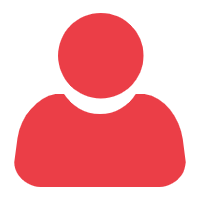
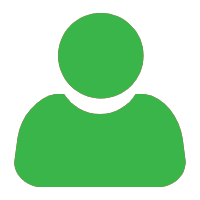
page modify stack bug and color

diff --git a/src/pages/me/index.vue b/src/pages/me/index.vue
@@ -3,14 +3,14 @@
     <view class="me-container" v-if="isLogin">
       <!-- 头部 -->
       <view class="me-header">
+        <view
+          style="height: 148px;background: #39b54a;border-radius: 0 0 60px 60px;position: absolute;width: 100%;z-index: -1;"
+        ></view>
         <!-- 个人 -->
         <view class="person-wrap">
           <image :src="meInfo.avatarUrl" />
           <view class="member-content">
-            <view class="member-name">
-              {{meInfo.nickName}}
-              <view class="iconfont iconyou"></view>
-            </view>
+            <view class="member-name">{{meInfo.nickName}}</view>
             <!-- <text class="gold">金币666</text> -->
           </view>
           <view class="earn-more">
@@ -203,6 +203,7 @@ export default {
 page {
   background: #f6f5f4;
 }
+
 .iconjinbi1 {
   color: #ffff00;
 }
@@ -218,6 +219,8 @@ button::after {
   border: 0;
 }
 .me-header {
+  // background-image: linear-gradient(180deg, #39b54a, #8dc63f);
+  // border-radius: 0 0 90px 90px;
   .person-wrap {
     display: flex;
     padding: 40rpx 20rpx 0 20rpx;
@@ -231,12 +234,13 @@ button::after {
       position: relative;
       display: flex;
       flex-direction: column;
-      justify-content: space-between;
+      justify-content: center;
       margin-left: 15rpx;
       font-size: 26rpx;
       .member-name {
         display: flex;
         align-items: center;
+        color: #fff;
         .iconyou {
           margin-left: 10rpx;
           font-size: 21rpx;
@@ -292,7 +296,7 @@ button::after {
         align-items: center;
         padding: 12rpx;
         background: #fff;
-        color: #e86453;
+        color: #eb6961;
         border-radius: 25rpx;
         .iconyou {
           font-size: 21rpx;

diff --git a/src/pages/detail/index.vue b/src/pages/detail/index.vue
@@ -238,7 +238,6 @@
   </view>
 </template>
 <script>
-/* eslint-disable no-undef */
 import { get } from '@/utils/http'
 import indexList from '@/components/index-list'
 import { moveTo } from '@/utils/common'
@@ -279,6 +278,10 @@ export default {
   async onShow() {
     /* eslint-disable no-undef */
     const list = getCurrentPages()
+    if (list.length > 6 && list[list.length - 5].route === 'pages/detail/main') {
+      // wx.navigateBack(-4)
+      console.log(list, this.route)
+    }
     this.currentPageId = list[list.length - 1].options.id
     if (!list[list.length - 1].data.goodsItem) {
       this.similarPopup = false
@@ -349,7 +352,16 @@ export default {
     },
     // 移动详情页
     moveToDetail(item) {
+      /* eslint-disable no-undef */
+      const list = getCurrentPages()
       this.similarTop = this.recordsTop
+      if (list.length > 6 && list[list.length - 5].route === 'pages/detail/main') {
+        wx.redirectTo({
+          url: '../detail/main?id=' + item.goodsId
+        })
+        return false
+      }
+
       moveTo('../detail/main', { id: item.goodsId })
     },
     // 相似商品页

diff --git a/src/components/index-list.vue b/src/components/index-list.vue
@@ -86,7 +86,8 @@ export default {
       height: 60rpx;
       line-height: 60rpx;
       .post-coupon {
-        color: #cd4939;
+        // color: #ee827c;
+        color: #eb6961;
         font-size: 27rpx;
         font-weight: bold;
         :nth-child(2) {
@@ -97,7 +98,8 @@ export default {
         }
       }
       .save-money {
-        background: #cd4939;
+        // background-image: linear-gradient(90deg, #88ada6, #8dc63f);
+        background: #8dc63f;
         width: 38%;
         font-size: 29rpx;
         color: #fff;

diff --git a/src/pages/index/index.vue b/src/pages/index/index.vue
@@ -483,8 +483,8 @@ swiper {
   top: 0;
   width: 100%;
   z-index: 99;
-  // background-image: linear-gradient(180deg, #90ee90, #fff);
-  background: #3b7642;
+  background-image: linear-gradient(90deg, #39b54a, #8dc63f);
+  // background: #3b7642;
   padding-top: 10rpx;
   .van-search__content {
     border-radius: 16px !important;

diff --git a/src/pages/search/index.vue b/src/pages/search/index.vue
@@ -223,7 +223,7 @@ page {
   display: flex;
   top: -2rpx;
   width: 100%;
-  background: #3b7642;
+  background: #39b54a;
 }
 .search-container {
   margin-top: 90px;
